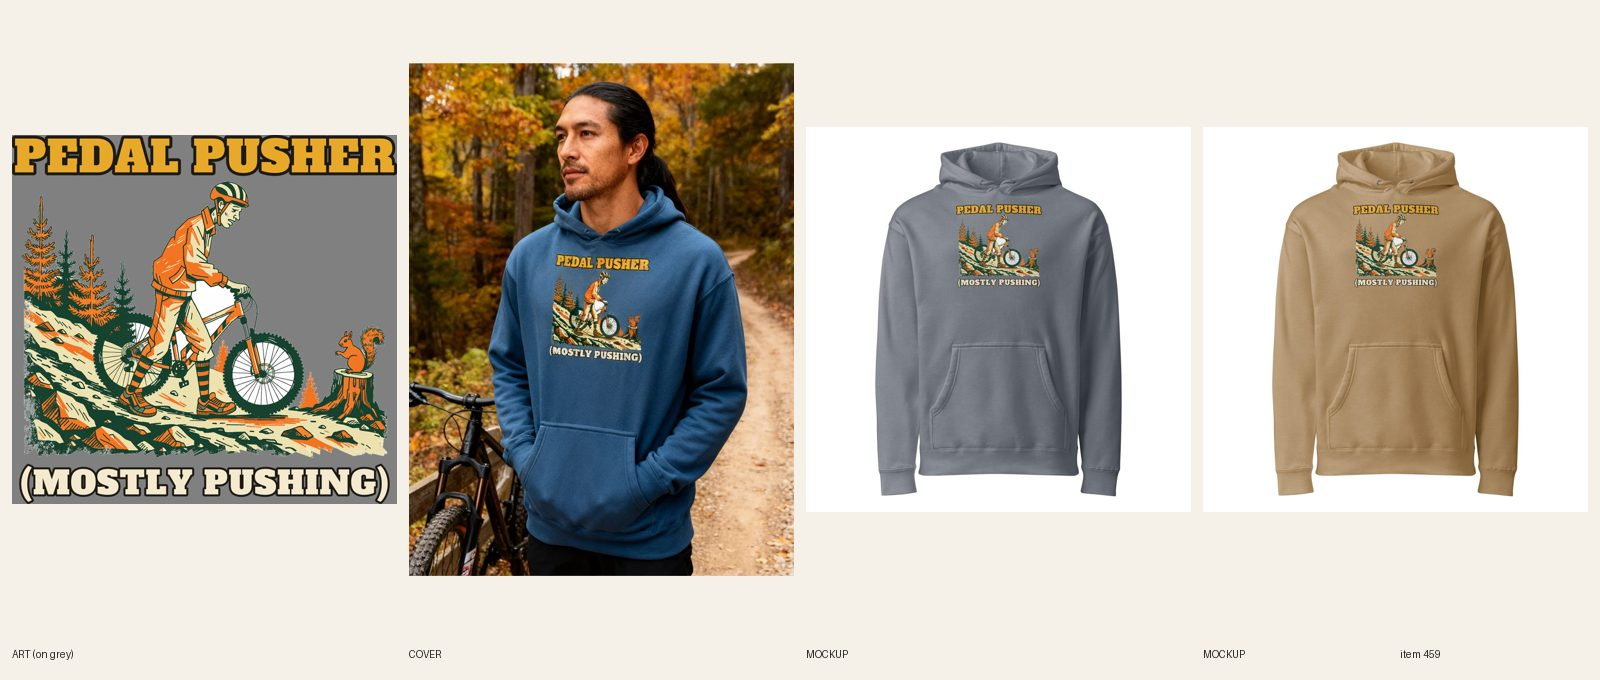
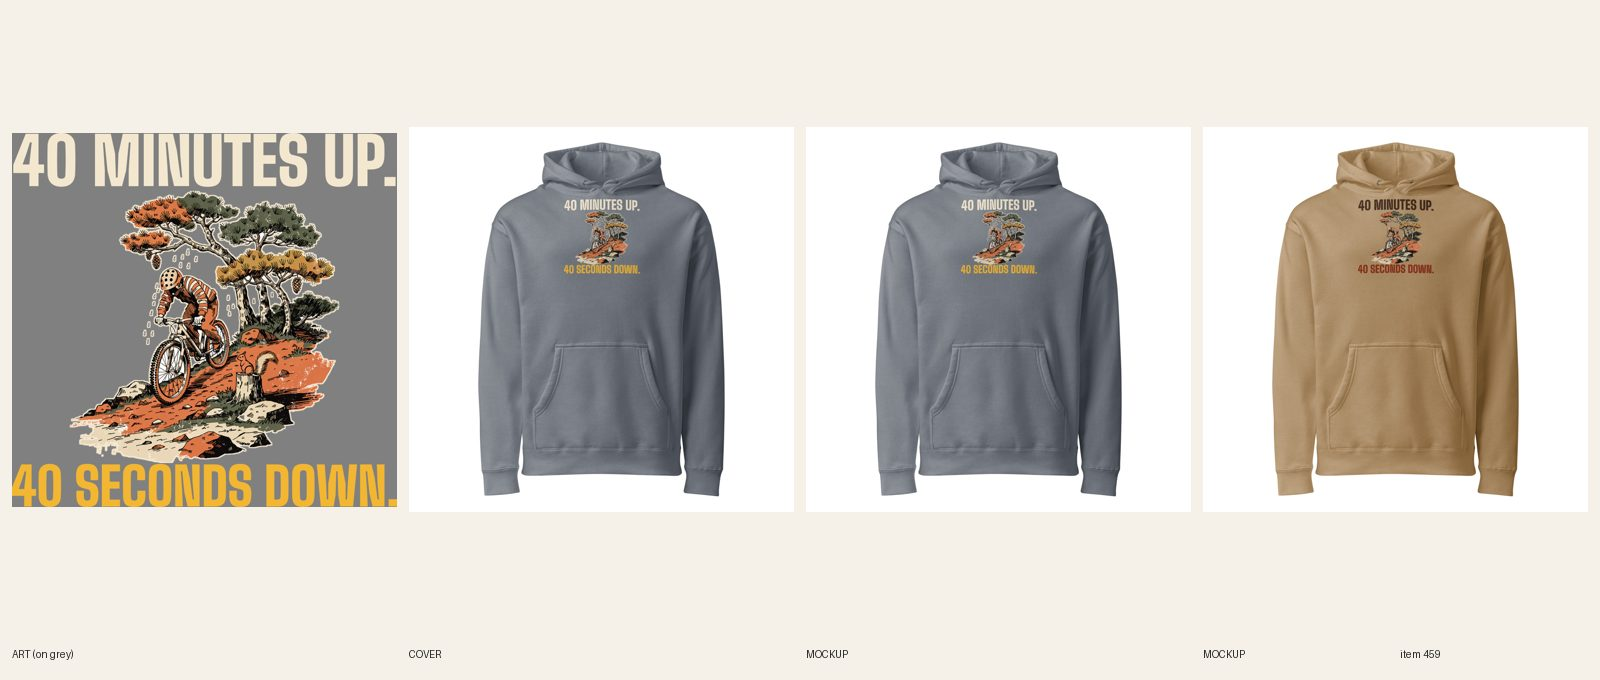
[E] review 459 redid #459 Men's Mountain Bike heavyweight hoodie (line + type: 40 MINUTES UP. 40 SECONDS DOWN., new downhill rider art, Storm Blue + Sandstone files, 14/14 synced, copy updated, plain product shot). REVIEW. fal $0.04.

Changed region(s): [[0.0, 0.0926, 0.5, 0.8647], [0.8438, 0.2779, 0.9062, 0.4324], [0.5938, 0.2779, 0.6562, 0.4324]]

diff --git a/docs/pipeline/459-mtb-hoodie-pedal-pusher.md b/docs/pipeline/459-mtb-hoodie-pedal-pusher.md
@@ -1,4 +1,4 @@
-status: REDO
+status: REVIEW
 lane: E
 type: new
 id: 459
@@ -29,3 +29,4 @@ kd: 20
 - 2026-10-17 22:00 UTC builder [E]: Built (status flips to REVIEW when sync = 14/14). Art: Recraft picture only, 3 calls (1st rider was riding downhill, 2nd tall, 3rd wide: tired rider pushing the bike up a steep trail, squirrel on a stump), words by compose-print.py (Alfa Slab: PEDAL PUSHER mustard, (MOSTLY PUSHING) cream, dark outline). Print 3412x3268, FW 1700 TOP 100 (area 1800 wide; IND4000), file 1088487547. Mockups Storm Blue + Sandstone fronts + back attached per color, phone read OK. Copy re-checked against the art (rider on foot, slab lettering, FAQ 5 Qs). Cover: registry 659, seedream 1 attempt, hands in pouch, bike on fence clear of the print; white bands cropped. audit-local PASS (cover warn fixed after). fal ~$0.17.
 - 2026-10-17 22:39 UTC director: APPROVED, LIVE. ACTIVE + Online Store, Headless and Google & YouTube; audit --handle PASS (0 warn). Copy polished by the director first (R8: keyword counts, superlatives, false claims).
 - 2026-10-18 17:22 UTC director: QUALITY RESET grade C (new line + type), REDO. The product stays ACTIVE (same handle, URL, title keyword). 1. Line (R3.12, quality-reset 'Lines'): "PEDAL PUSHER / (MOSTLY PUSHING)": Pun + parenthetical aside formula; mild, same pattern as "magical (mostly tired)". Write 5 candidates, keep the one a stranger laughs at in 3 seconds without backstory; kill lines that only describe the picture; if none of the 5 is funny, PARK it. 2. Quality reset type bar (docs/backlog/quality-reset.md, 'The new bar'): headline at least 90% of the art width, heavy, colors pulled from the art; second line at least 45% of the headline's height, never a thin script on a dark or mid garment; use the lettering as a shape (arch, stacked lockup, words breaking into the art), not a plain bar above and a script line below; no font used on more than 1 in 6 of the last 30 designs. 3. Keep the art if it carries the new line, else one new illustration (R4/R5). New print means a new cover per R6.10, copy line one rewritten for the new joke (R8.3), and a fresh review sheet (R7.7). While quality-reset.md says PAUSED, only lane A builds, and only the samples step 2 names.
+- 2026-10-20 04:15 UTC builder [E]: REDO 459 (C grade, line + type) done on the existing product (stays ACTIVE, handle unchanged). 5 candidates: "40 MINUTES UP. 40 SECONDS DOWN."; "Uphill Is Just Paying For Downhill"; "Pedal Pusher (Mostly Pushing)" (old, insider); "Hike-A-Bike Champion"; "I Only Ride For The Descent". Kept 40 MINUTES UP. / 40 SECONDS DOWN. (the rider who earns one fast descent, 3 seconds; the new art shows the descent). One new Recraft call ($0.04): sweaty rider in a spotted helmet dropping a rocky pine trail, squirrel on a stump, no words. Big Shoulders Display Black, both lines full print width. Storm Blue file 1090155818 (cream + mustard, thin cream halo); Sandstone file 1090157245 (dark brown + dark rust 8a2a12: first try with orange bottom was low contrast on the mockup, redone; dark fill: light file logged for Sandstone). FW 1500 TOP 0 (9.7 in tall), 14/14 synced on the right file per color, back logo kept. Fronts replaced in place, alts updated, title/SEO/copy/FAQs rewritten, ink named from the mockups. Cover: handle added to retired-covers.json (plain product shot). Phone-size read OK on both. audit --handle PASS 0 warn; astro build OK. fal $0.04. Sheet docs/review/459.jpg.

diff --git a/docs/intake-log.md b/docs/intake-log.md
@@ -1,5 +1,6 @@
 RUNNING director since 2026-10-20 04:12 UTC
 2026-10-20 03:47 UTC — [H] Helper run: audit 607 products, 0 errors, 30 warnings (no scripted ERRORs to fix). Category check: 0 products without a Shopify category. Site check: 3 newest LIVE pages (#618, #578, #548) all 200. Stuck-work check: nothing BUILDING, all locks under 2h. Telegram: no new messages. Announcement bar already on holiday line. Daily summary not due (before 12:00 UTC). Lock released.
+2026-10-20 04:15 UTC — [E] Builder run: redid #459 Men's Mountain Bike heavyweight hoodie (line + type: 40 MINUTES UP. 40 SECONDS DOWN., new downhill rider art, Storm Blue + Sandstone files, 14/14 synced, copy updated, plain product shot). REVIEW. fal $0.04.
 2026-10-20 04:08 UTC — [E] Builder run: redid #443 Unisex Mothman hoodie (line + type: SIGHTINGS BY APPOINTMENT ONLY., new sleeping Mothman art, Navy + Sand files, 12/12 synced, copy updated, plain product shot). REVIEW. fal $0.04.
 2026-10-20 04:13 UTC — [B] Builder run: redid #280 Women's Thanksgiving pumpkin hoodie (line + type: TURKEY WAS / THE WARM-UP., same pie art, Anton, Navy + Sand light files, 12/12 synced). REVIEW. fal $0.
 2026-10-20 03:57 UTC — [E] Builder run: redid #409 Men's Trucker heavyweight hoodie (line + type: MY ETA IS AFTER PIE., new semi + diner + pie art, Storm Blue + Sandstone files, 12/12 synced, copy updated, plain product shot). REVIEW. fal $0.04.
